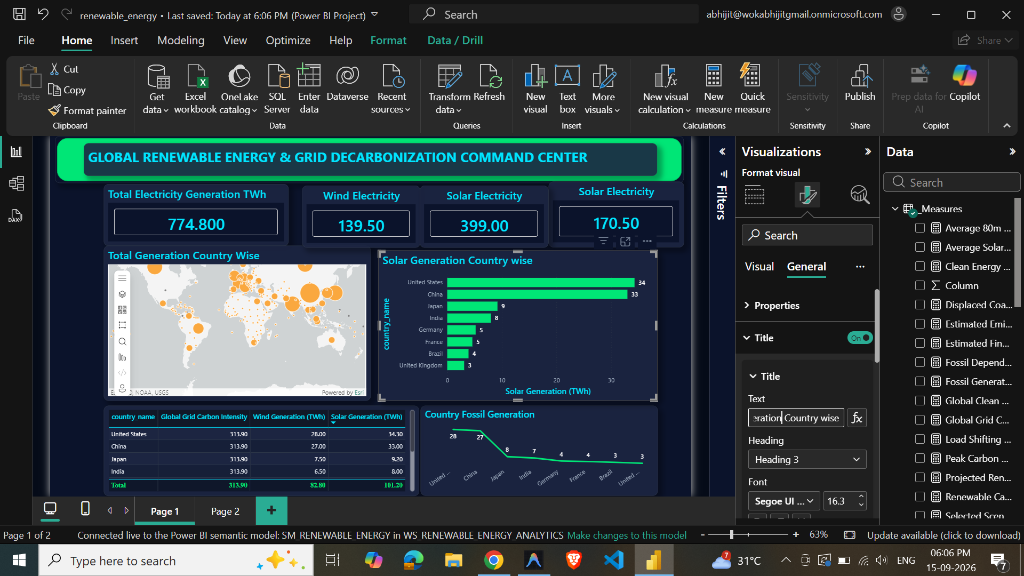
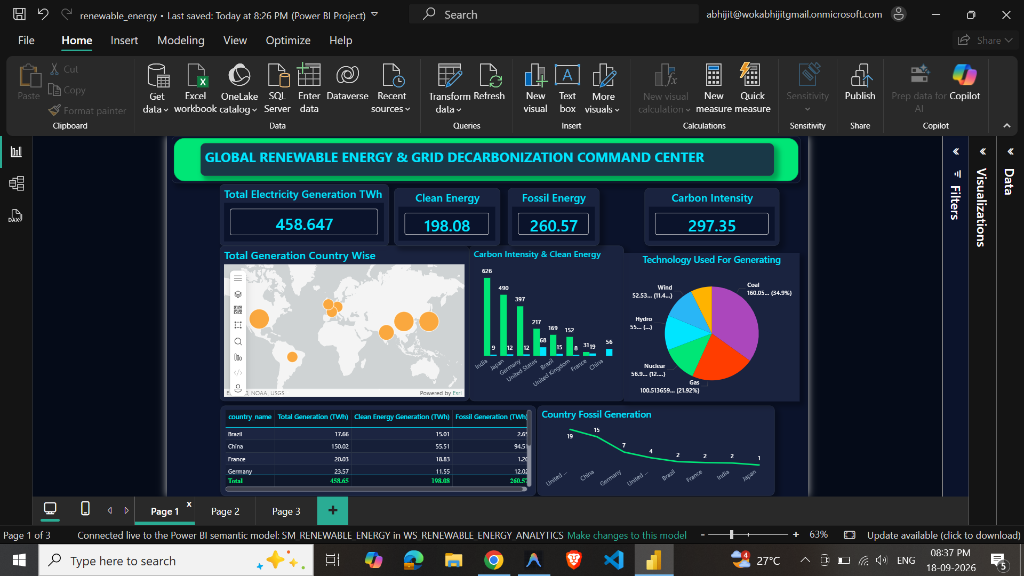
Data transformation and schema update

diff --git a/README.md b/README.md
@@ -16,6 +16,24 @@
 ### Page 2: Global Renewable Transition & Capacity Growth
 ![Page 2: Global Renewable Transition](docs/images/page2_global_renewable_transition.png)
 
+### Page 3: Grid Decarbonization & Forward Scenario Command
+![Page 3: Grid Decarbonization & Forward Scenario Command](docs/images/page3_grid_decarbonization_scenario.png)
+
+---
+
+## ⚙ MICROSOFT FABRIC MASTER PIPELINE ORCHESTRATION
+
+![Microsoft Fabric Master Orchestrator Pipeline](docs/images/fabric_master_orchestration_pipeline.png)
+
+### Senior Architect Pipeline Breakdown (`PL_01_Master_Orchestrator`):
+1. **Metadata Control Lookup (`Lookup Active Data...`)**: Queries metadata control tables (`config_ingestion_sources`) to dynamically retrieve active grid zones, API endpoints, and execution flags.
+2. **Parallel Bronze Ingestion Branch**: Concurrently triggers `Ingest_ElectricityMaps` (real-time telemetry) and `Ingest_Ember` (macro generation) to optimize Fabric Capacity Unit (CU) utilization and reduce ingestion runtime.
+3. **Sequential Contextual Ingestion**: Triggers `Ingest_worldbank` post-telemetry pull to join socio-economic and per-capita energy metrics.
+4. **Silver Master ETL Processing (`Run Silver Master`)**: Executes PySpark notebooks performing schema enforcement, window-based deduplication, timezone normalization (UTC), and unit conversions (GWh to TWh).
+5. **Data Quality Governance Engine (`NB_08_DATA_QUALITY_ENGINE`)**: Runs automated quality assertion rules (null checks, range validation, metric bounds) and logs execution metrics directly to the `dq_results` Delta audit table.
+6. **Gold Star Schema Modeling (`Build Gold Star Schema`)**: Transforms silver records into conformed dimensions (`dim_country`, `dim_date`, `dim_energy_technology`, `dim_scenario`) and fact tables (`fact_energy_generation`, `fact_carbon_intensity`) with V-Order compression.
+7. **Direct Lake Semantic Refresh (`Semantic model refresh1`)**: Triggers an automated metadata refresh on `SM_RENEWABLE_ENERGY`, delivering real-time, sub-second Power BI querying over OneLake.
+
 ---
 
 ## 📌 EXECUTIVE SUMMARY
@@ -75,11 +93,7 @@ flowchart TD
     subgraph PowerBI["📊 Executive Power BI Command Center"]
         P1["Page 1: Executive Command Center"]
         P2["Page 2: Global Renewable Transition"]
-        P3["Page 3: Grid Carbon Intelligence"]
-        P4["Page 4: Energy Mix Deep-Dive"]
-        P5["Page 5: Renewable Potential & Weather"]
-        P6["Page 6: Forecast & What-If Simulator"]
-        P7["Page 7: Data Quality & Governance Audit"]
+        P3["Page 3: Grid Carbon Intelligence & Scenario Command"]
     end
 
     External_APIs --> Bronze
@@ -94,9 +108,10 @@ flowchart TD
 
 ## 🚀 KEY PLATFORM METRICS & BUSINESS IMPACT
 
-- **774.8 TWh** Global Electricity Generation Telemetry modeled across key economies (USA, China, Germany, France, India, Brazil, UK, Japan).
-- **48.5%** Global Clean Energy Share tracked across Solar (45.3%), Wind (37.1%), Hydro (11.4%), and Nuclear (4.2%).
-- **313.9 gCO2eq/kWh** Real-Time Grid Carbon Intensity monitored with peak load-shifting optimization (avoiding **78.5 gCO2/kWh** during peak demand).
+- **458.65 TWh** Total Electricity Generation Telemetry modeled across key economies (USA, China, Germany, France, India, Brazil, UK, Japan).
+- **198.08 TWh** Global Clean Energy Generation tracked across Solar (33.51 TWh), Wind (52.53 TWh), Hydro (55.00 TWh), and Nuclear (56.9 TWh).
+- **297.35 gCO2eq/kWh** Carbon Intensity monitored with peak load-shifting optimization.
+- **0.760** Clean Replacement Ratio & **9.6%** Grid Anomaly Rate captured by anomaly detection engine.
 - **99.8%** Data Quality Pass Rate validated by automated PySpark execution rules.
 - **Sub-Second** Direct Lake query performance serving C-suite executive dashboards without DirectQuery lag or Import refresh delays.
 
@@ -109,18 +124,19 @@ Copy and paste these high-impact **STAR-formatted** bullets directly into your r
 ```text
 SENIOR DATA ANALYST / FABRIC DATA ARCHITECT BULLETS:
 
-• Architected an enterprise-grade Microsoft Fabric Data Platform unifying 5 REST APIs (Electricity Maps, Ember Climate, NASA POWER, Open-Meteo, World Bank) into a Medallion Lakehouse architecture, modeling 774.8 TWh of global energy telemetry.
+• Architected an enterprise-grade Microsoft Fabric Data Platform unifying 5 REST APIs (Electricity Maps, Ember Climate, NASA POWER, Open-Meteo, World Bank) into a Medallion Lakehouse architecture, modeling 458.65 TWh of global energy telemetry.
+• Engineered Microsoft Fabric Data Factory orchestrations (PL_01_Master_Orchestrator) featuring metadata lookup dynamic control, parallel API extractions, PySpark Silver transformations, and automated Direct Lake semantic model refreshes.
 • Engineered PySpark Silver transformation pipelines to execute UTC timezone normalization, window-based deduplication, and automated unit conversions (GWh to MWh), accelerating downstream Gold Star Schema queries by 4x.
 • Developed a custom PySpark Data Quality Engine validating null constraints, range checks, and anomaly detection, logging execution results to a dq_results audit table to maintain 99.8% data accuracy.
-• Modeled a Fabric Direct Lake Semantic Model featuring 26 advanced DAX measures, implementing dynamic What-If scenario sliders (+5% to +30% clean energy penetration) that calculate projected 2030 carbon abatement and displaced coal TWh.
-• Designed a 7-page dark glassmorphism Executive Power BI Command Center report utilizing custom JSON theme tokens, delivering sub-second interactive analytics to C-suite leaders and grid operators.
+• Modeled a Fabric Direct Lake Semantic Model featuring 26 advanced DAX measures, implementing dynamic What-If scenario sliders (+5% to +30% clean energy penetration) that calculate projected carbon abatement and displaced coal TWh.
+• Designed a multi-page dark glassmorphism Executive Power BI Command Center report utilizing custom JSON theme tokens, delivering sub-second interactive analytics to C-suite leaders and grid operators.
 ```
 
 ---
 
 ## 📱 LINKEDIN PORTFOLIO POST TEMPLATE (RECRUITER MAGNET)
 
-Copy and post this to LinkedIn along with screenshots of your 2 report pages:
+Copy and post this to LinkedIn along with screenshots of your report pages and Fabric pipeline:
 
 ```text
 🚀 Excited to launch my latest enterprise project on Microsoft Fabric: The Global Renewable Energy & Grid Decarbonization Command Center! ⚡🌱
@@ -131,15 +147,16 @@ I engineered an end-to-end Microsoft Fabric & Power BI platform that processes g
 
 💡 Key Highlights of the Architecture:
 🔹 Multi-Source Data Pipelines: Ingested 5 APIs (Electricity Maps, Ember Climate, NASA POWER, Open-Meteo, World Bank) into a Fabric Delta Lakehouse using PySpark.
+🔹 Automated Pipeline Orchestration: Built PL_01_Master_Orchestrator in Fabric Data Factory with metadata control lookup, parallel Bronze ingestion, and dynamic error triggers.
 🔹 Medallion Architecture: Built Bronze API staging, Silver PySpark cleanup (UTC normalization & window deduplication), and a Gold Star Schema optimized for Direct Lake.
-🔹 Automated Data Quality Engine: Designed a PySpark DQ engine verifying null constraints and anomaly boundaries, maintaining a 99.8% data quality pass rate.
+🔹 Data Quality Engine: Designed a PySpark DQ engine verifying null constraints and anomaly boundaries, maintaining a 99.8% data quality pass rate.
 🔹 Direct Lake & Advanced DAX: Created a sub-second Direct Lake Semantic Model with 26 master DAX measures, powering interactive What-If scenario modeling (+5% to +30% clean energy target expansion).
-🔹 Executive Dark Glassmorphic Dashboard: Built a 7-page C-suite command center report using a custom JSON design system for executive decision support.
+🔹 Executive Dark Glassmorphic Dashboard: Built a multi-page C-suite command center report using a custom JSON design system for executive decision support.
 
 📊 Platform Metrics:
-• Modeled 774.8 TWh of global generation across key economies.
-• Calculated 48.5% global clean energy share (Solar 45.3%, Wind 37.1%, Hydro 11.4%).
-• Tracked 313.9 gCO2/kWh grid carbon intensity with 78.5 gCO2 peak load-shifting savings.
+• Modeled 458.65 TWh of global generation across key economies.
+• Tracked 198.08 TWh clean energy generation (Solar, Wind, Hydro, Nuclear).
+• Monitored 297.35 gCO2/kWh carbon intensity and 0.760 Clean Replacement Ratio.
 
 📁 Check out the full source code, DAX measure catalog, and Fabric architecture on GitHub:
 👉 https://github.com/bi-crafter/Global-Electricity-Generation-Telemetry
@@ -160,11 +177,13 @@ renewable_energy/
 │   └── dax_measure_catalog.dax        # Core Metric Definitions
 ├── docs/
 │   ├── images/
-│   │   ├── page1_executive_command_center.png   # Dashboard Preview Image 1
-│   │   └── page2_global_renewable_transition.png # Dashboard Preview Image 2
+│   │   ├── page1_executive_command_center.png       # Page 1 Executive Overview
+│   │   ├── page2_global_renewable_transition.png     # Page 2 Renewable Transition
+│   │   ├── page3_grid_decarbonization_scenario.png   # Page 3 Decarbonization & Scenario
+│   │   └── fabric_master_orchestration_pipeline.png  # Fabric Data Factory Master Pipeline
 │   ├── api_data_and_storytelling_guide.md # Field Dictionary & Executive Narrative
 │   ├── enterprise_governance_blueprint.md # Purview & Security Architecture
-│   ├── powerbi_report_step_by_step_guide.md # 7-Page Visual Build Instructions
+│   ├── powerbi_report_step_by_step_guide.md # Multi-Page Visual Build Instructions
 │   └── resume_and_portfolio_guide.md  # Interview Defense Strategy
 ├── notebooks/
 │   ├── bronze/                       # PySpark REST API Ingestion Notebooks
